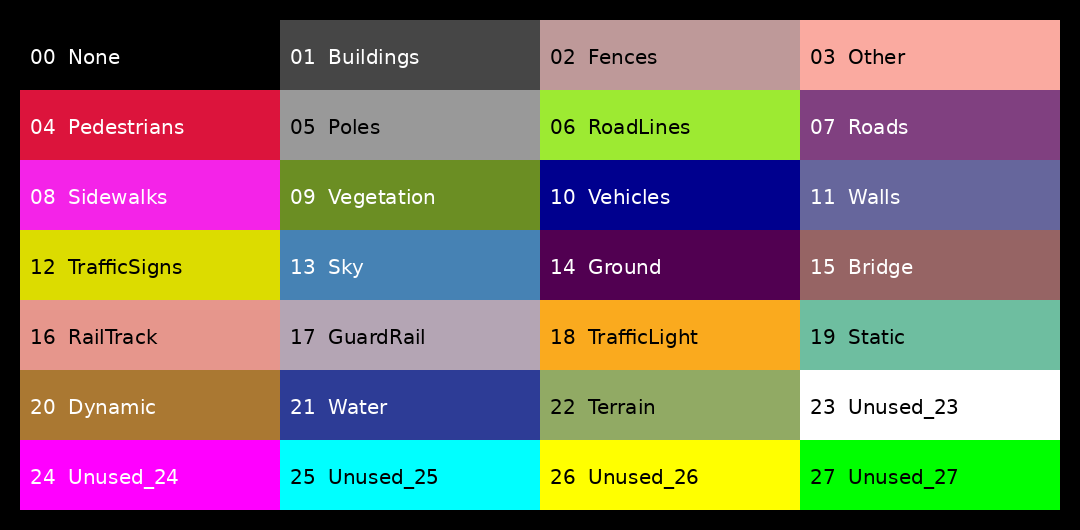
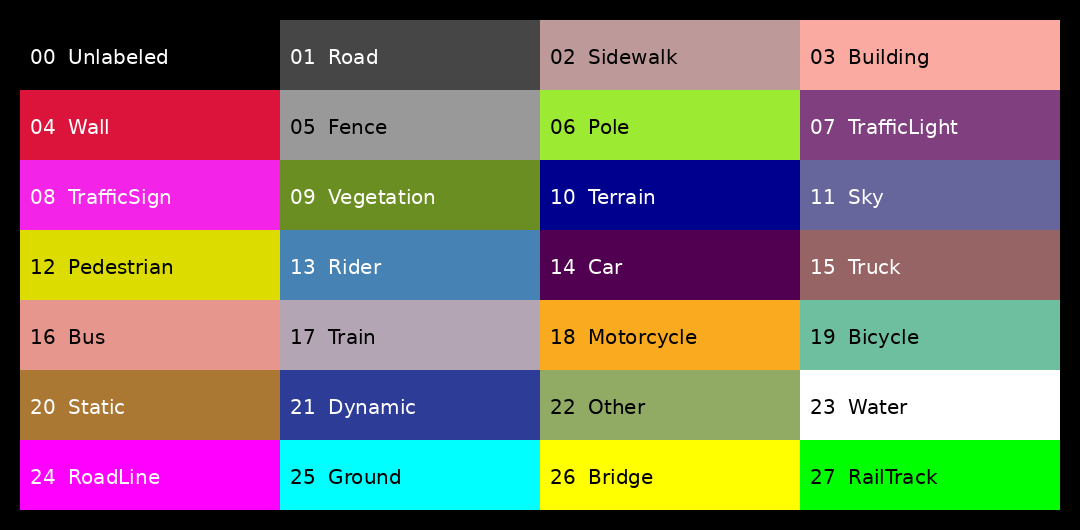
working loop with seed

diff --git a/train_CMPE_rulebased.py b/train_CMPE_rulebased.py
@@ -41,12 +41,12 @@ OBST_STOP  = "stop_for_obstacle"
 # OBST_SLOW_DIST = 12.0   # <= this -> slow
 # OBST_CLEAR_DIST = 24.0  # beyond this -> totally clear
 
-TARGET_SPEED_NORMAL = 10.0   # m/s ~ 36 km/h
+TARGET_SPEED_NORMAL = 8.0   # m/s ~ 36 km/h
 TARGET_SPEED_APPROACH = TARGET_SPEED_NORMAL * 0.6  # m/s ~ 18 km/h
 STOP_DISTANCE_M = 5        # within 3m of goal -> stop
 APPROACH_DISTANCE_M = 20.0   # within 20m of goal -> approach_goal
 
-LOOKAHEAD_STEPS = 2    # how far ahead along the route to aim
+LOOKAHEAD_STEPS = 1    # how far ahead along the route to aim
 K_STEER_PP      = 1.5  # gain for pure-pursuit steering (tune 0.8–1.5)
 WHEELBASE_M     = 2.8  # approximate vehicle wheelbase for curvature calc
 
@@ -54,7 +54,7 @@ WHEELBASE_M     = 2.8  # approximate vehicle wheelbase for curvature calc
 PEDESTRIAN_CLASS = 26
 #PEDESTRIAN_CLASS_2 = 12
 VEHICLE_CLASS    = 14
-VEHICLE_CLASS_2 = 15
+VEHICLE_CLASS_2 = 15 # this is absolutely right<`` but sometimes cause glitch
 
 ROADLINE_CLASS = 24
 TRAFFIC_SIGN_CLASS = 12
@@ -859,19 +859,13 @@ def compute_min_obstacle_depth(seg_ids: np.ndarray,
     """
     Use segmentation + depth to estimate the nearest obstacle distance.
 
-    seg_ids   : (H, W) int class indices
-    depth_map : (H, W) float32 in meters, aligned with seg_ids
-
-    If use_roi:
-      only consider a central-bottom ROI (same spirit as compute_obstacle_proximity),
-      so we react mainly to obstacles actually in our lane & near in front.
-
     Returns:
-      min_depth (float, meters) of any pedestrian/vehicle pixel in ROI,
-      or None if no such pixels.
+      (min_depth, class_id) where:
+        - min_depth: float in meters, or None if no obstacle
+        - class_id : int (segmentation class index) of that nearest obstacle, or None
     """
     if seg_ids is None or depth_map is None:
-        return None
+        return None, None
 
     if seg_ids.shape != depth_map.shape:
         raise ValueError(f"seg_ids shape {seg_ids.shape} != depth_map shape {depth_map.shape}")
@@ -891,48 +885,34 @@ def compute_min_obstacle_depth(seg_ids: np.ndarray,
 
         trap = trapezoid_mask(h, w, y0, y1, x_lt, x_rt, x_lb, x_rb)
 
-        seg_roi_mask = trap
-        depth_roi = depth_map  # we’ll index by mask below
+        roi_mask = trap
     else:
-        seg_roi_mask = np.ones_like(seg_ids, dtype=bool)
-        depth_roi = depth_map
+        roi_mask = np.ones_like(seg_ids, dtype=bool)
 
-    # if use_roi:
-    #     h, w = seg_ids.shape
-    #     y0 = max(0, min(ROI_Y_START, h))
-    #     y1 = max(0, min(ROI_Y_END,   h))
-    #     x0 = max(0, min(ROI_X_START, w))
-    #     x1 = max(0, min(ROI_X_END,   w))
-
-    #     if y1 <= y0 or x1 <= x0:
-    #         return None  # bad ROI => no info
-
-    #     seg_roi   = seg_ids[y0:y1, x0:x1]
-    #     depth_roi = depth_map[y0:y1, x0:x1]
-    # else:
-    #     seg_roi   = seg_ids
-    #     depth_roi = depth_map
-
-    # mask of all ped/vehicle pixels in ROI
-    # mask = np.isin(seg_roi, list(OBSTACLE_CLASSES))
-    # if not mask.any():
-    #     return None
-
-    # obstacle_depths = depth_roi[mask]
-    # mask of all ped/vehicle pixels within ROI mask
-    mask_obst = np.logical_and(seg_roi_mask, np.isin(seg_ids, list(OBSTACLE_CLASSES)))
+    # pixels that are both in ROI and belong to an obstacle class
+    mask_obst = np.logical_and(roi_mask, np.isin(seg_ids, list(OBSTACLE_CLASSES)))
     if not mask_obst.any():
-        return None
+        return None, None
 
-    obstacle_depths = depth_map[mask_obst]
+    ys, xs = np.where(mask_obst)
+    depths = depth_map[ys, xs]
 
-    obstacle_depths = obstacle_depths[np.isfinite(obstacle_depths)]
-    obstacle_depths = obstacle_depths[obstacle_depths > 0.1]  # ignore junk very close to 0
+    # keep only valid depths
+    valid = np.isfinite(depths) & (depths > 0.1)
+    if not valid.any():
+        return None, None
 
-    if obstacle_depths.size == 0:
-        return None
+    depths_valid = depths[valid]
+    ys_valid = ys[valid]
+    xs_valid = xs[valid]
 
-    return float(obstacle_depths.min())
+    idx_min = int(np.argmin(depths_valid))
+    min_depth = float(depths_valid[idx_min])
+
+    # nearest pixel's class id
+    class_id = int(seg_ids[ys_valid[idx_min], xs_valid[idx_min]])
+
+    return min_depth, class_id
 
 
 
@@ -1041,6 +1021,7 @@ def main():
 
         obstacle_state = OBST_CLEAR
         min_obstacle_depth = None
+        min_obstacle_class = None  
 
         # Prime the world once so sensors start producing data
         world.tick()
@@ -1097,8 +1078,13 @@ def main():
                 # --- STOP patch detection (segmentation-only) ---
                 stop_patch_detected = detect_stop_patch(seg_ids)
 
-                # 🔎 nearest obstacle distance (meters)
-                min_obstacle_depth = compute_min_obstacle_depth(seg_ids, depth_map)
+                # 🔎 nearest obstacle distance (meters) + class id
+                prev_obstacle_state = obstacle_state  # track old state
+
+                min_obstacle_depth, min_obstacle_class = compute_min_obstacle_depth(
+                    seg_ids,
+                    depth_map,
+                )
 
                 # update obstacle state using distance
                 obstacle_state = update_obstacle_state_from_depth(
@@ -1106,6 +1092,16 @@ def main():
                     min_obstacle_depth,
                     speed,
                 )
+
+                # Debug: when we *enter* "stop_for_obstacle", print who is doing it
+                if (obstacle_state == OBST_STOP and
+                    prev_obstacle_state != OBST_STOP and
+                    min_obstacle_depth is not None and
+                    min_obstacle_class is not None):
+                    print(
+                        f"[OBST STOP] class_id={min_obstacle_class} "
+                        f"at {min_obstacle_depth:.1f} m"
+                    )
 
             # ---- Ego position from GNSS only ----
             gnss = controlled_agent.get_gnss_latest()

diff --git a/make_seg_palette.py b/make_seg_palette.py
@@ -48,12 +48,35 @@ except ImportError:
 
 # Class labels (same order as the palette)
 CLASS_LABELS = [
-    "None", "Buildings", "Fences", "Other", "Pedestrians", "Poles", "RoadLines",
-    "Roads", "Sidewalks", "Vegetation", "Vehicles", "Walls", "TrafficSigns", "Sky",
-    "Ground", "Bridge", "RailTrack", "GuardRail", "TrafficLight", "Static", "Dynamic",
-    "Water", "Terrain", "Unused_23", "Unused_24", "Unused_25", "Unused_26", "Unused_27"
+    "Unlabeled",     # 0
+    "Road",          # 1
+    "Sidewalk",      # 2
+    "Building",      # 3
+    "Wall",          # 4
+    "Fence",         # 5
+    "Pole",          # 6
+    "TrafficLight",  # 7
+    "TrafficSign",   # 8
+    "Vegetation",    # 9
+    "Terrain",       # 10
+    "Sky",           # 11
+    "Pedestrian",    # 12
+    "Rider",         # 13
+    "Car",           # 14
+    "Truck",         # 15
+    "Bus",           # 16
+    "Train",         # 17
+    "Motorcycle",    # 18
+    "Bicycle",       # 19
+    "Static",        # 20
+    "Dynamic",       # 21
+    "Other",         # 22
+    "Water",         # 23
+    "RoadLine",      # 24
+    "Ground",        # 25
+    "Bridge",        # 26
+    "RailTrack",     # 27
 ]
-
 
 def make_color_legend(
     palette,

diff --git a/customAgents.py b/customAgents.py
@@ -99,7 +99,7 @@ class Agent:
                 # - first waypoint is guaranteed to be in front of the vehicle
                 route_wps, dest_loc = self._build_forward_route(
                     start_location=start,
-                    min_distance=250.0,   # tweak as you like
+                    min_distance=2500.0,   # tweak as you like
                     step=2.0,
                 )
 
@@ -239,7 +239,7 @@ class Agent:
         start_location: carla.Location,
         min_distance: float = 500.0,
         step: float = 2.0,
-        max_steps: int = 1000,
+        max_steps: int = 5000,
     ):
         """
         Build a dense route by walking forward along the driving lane from

diff --git a/controlled_agent.py b/controlled_agent.py
@@ -33,7 +33,7 @@ class Controlled_Agents(Agent):
     """
 
     def __init__(self, world: carla.World, index: int, config: Dict[str, Any]):
-        super().__init__(world, index, config, role_prefix="controlled_agent")
+        super().__init__(world, index, config, role_prefix="controlled_agent", seed = 119)
         # self.starting_point: carla.Location = (
         #     self.vehicle.get_transform().location if self.vehicle is not None else None
         # )
